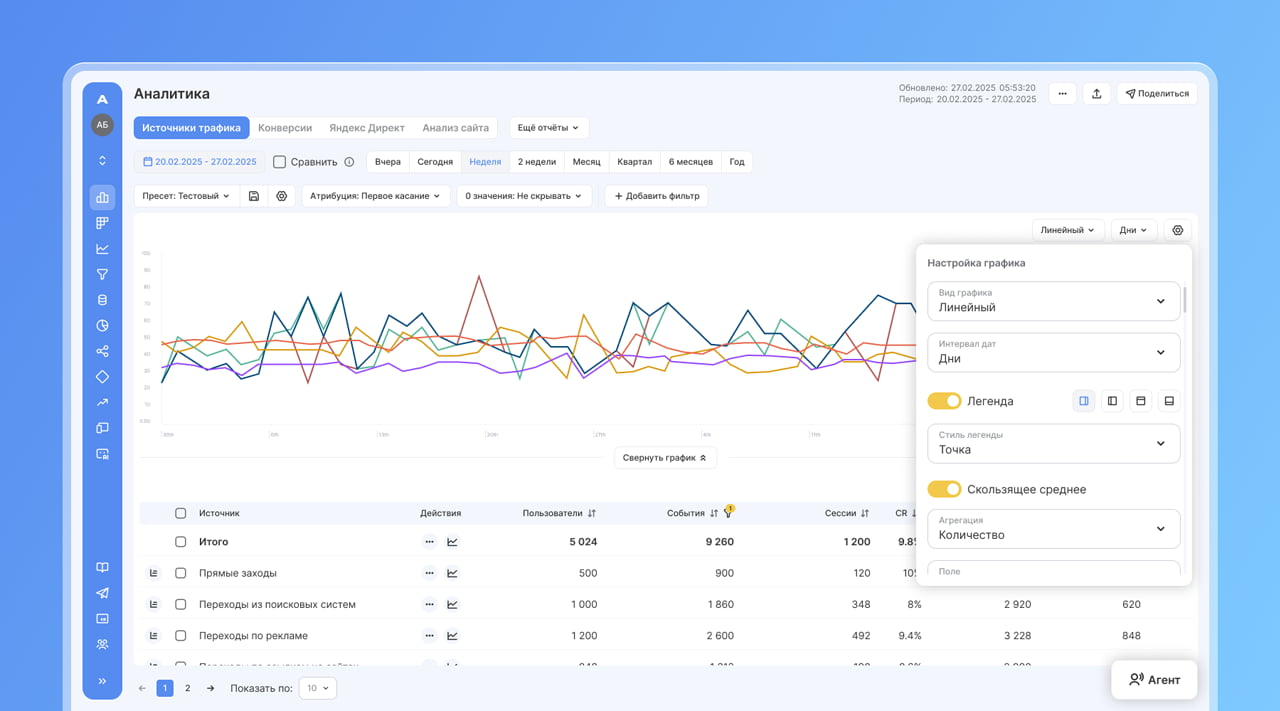
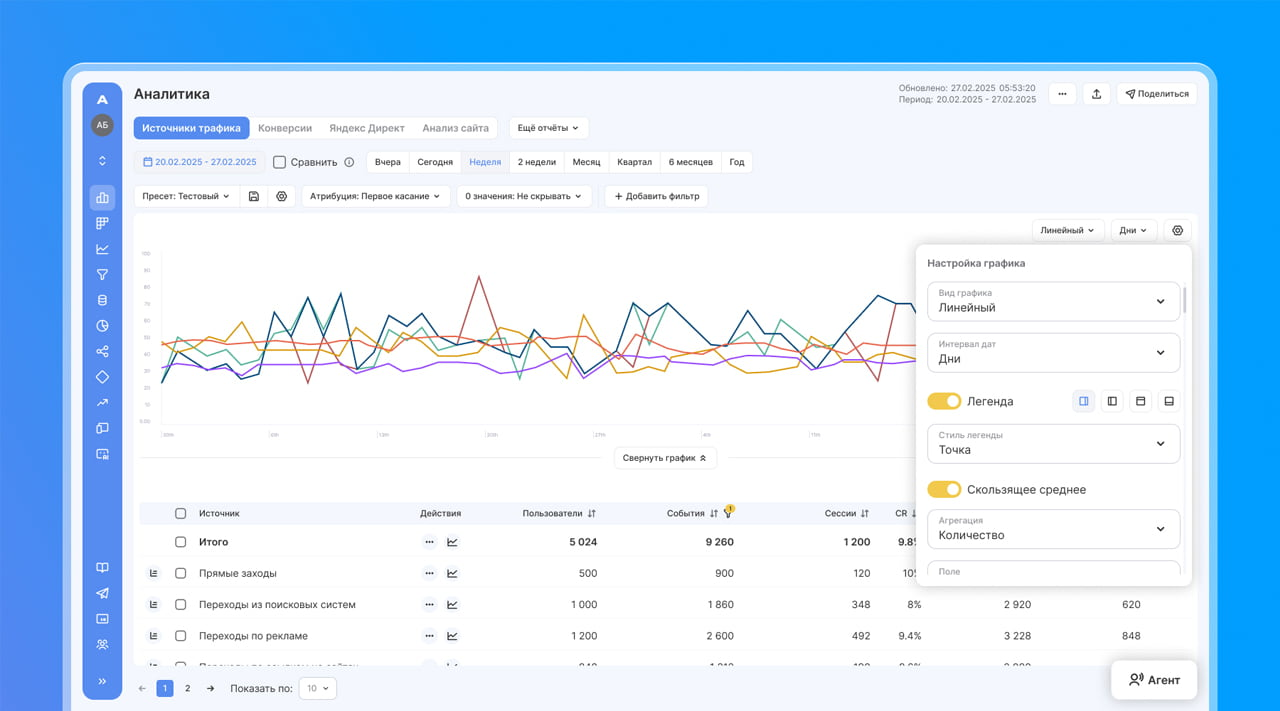
описание

Changed region(s): [[0.0, 0.0, 1.0, 1.0], [0.125, 0.4641, 0.7188, 0.526], [0.8125, 0.6807, 0.8438, 0.7117]]

diff --git a/app/cases/visuals/page.tsx b/app/cases/visuals/page.tsx
@@ -19,9 +19,13 @@ export default function VisualsPage() {
             Здесь тренирую UI, насмотренность, руки и немного выхожу за рамки задач
           </h3>
           <ProjectImage
-            src="/images/projects/uishot_ozon.jpg"
+            src="/images/projects/uishot_messenger_desktop.jpg"
             alt="AI-summarization непрочитанных сообщений в корпоративном мессенджере"
             caption="AI-summarization непрочитанных сообщений в корпоративном мессенджере"
+          />
+          <ProjectImage
+            src="/images/projects/uishot_messenger_mobile.jpg"
+            alt="AI-summarization непрочитанных сообщений в корпоративном мессенджере"
           />
           <ProjectImage
             src="/images/projects/uishot_alfa.jpg"
